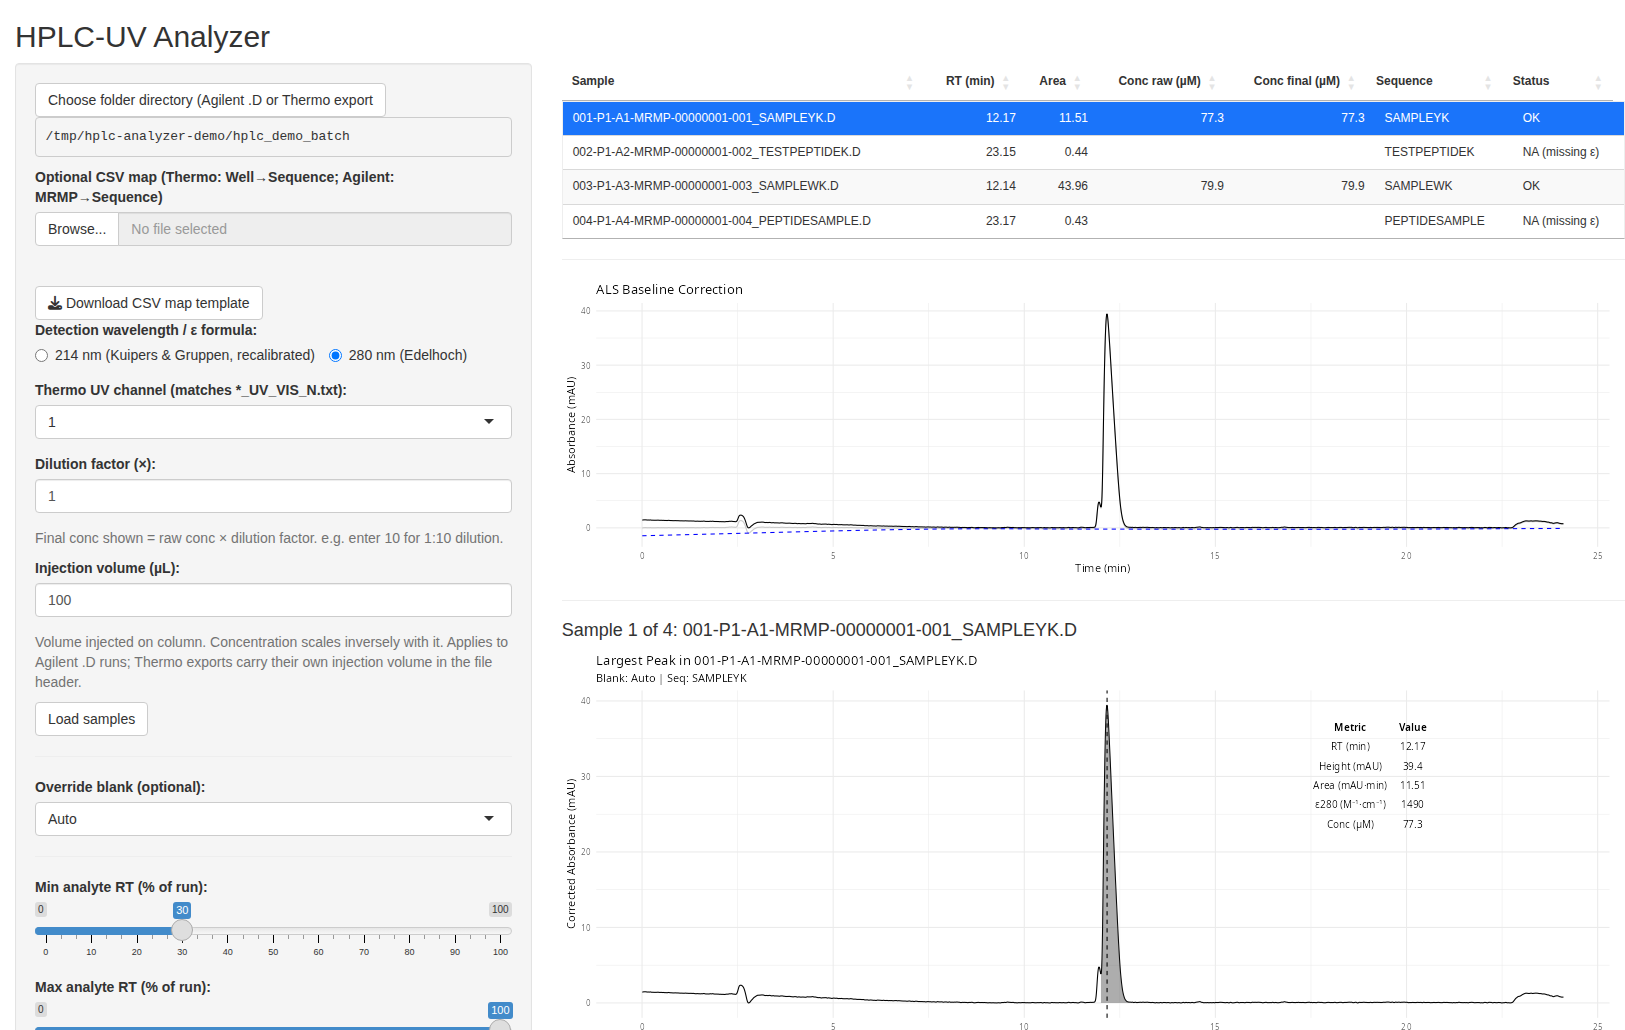
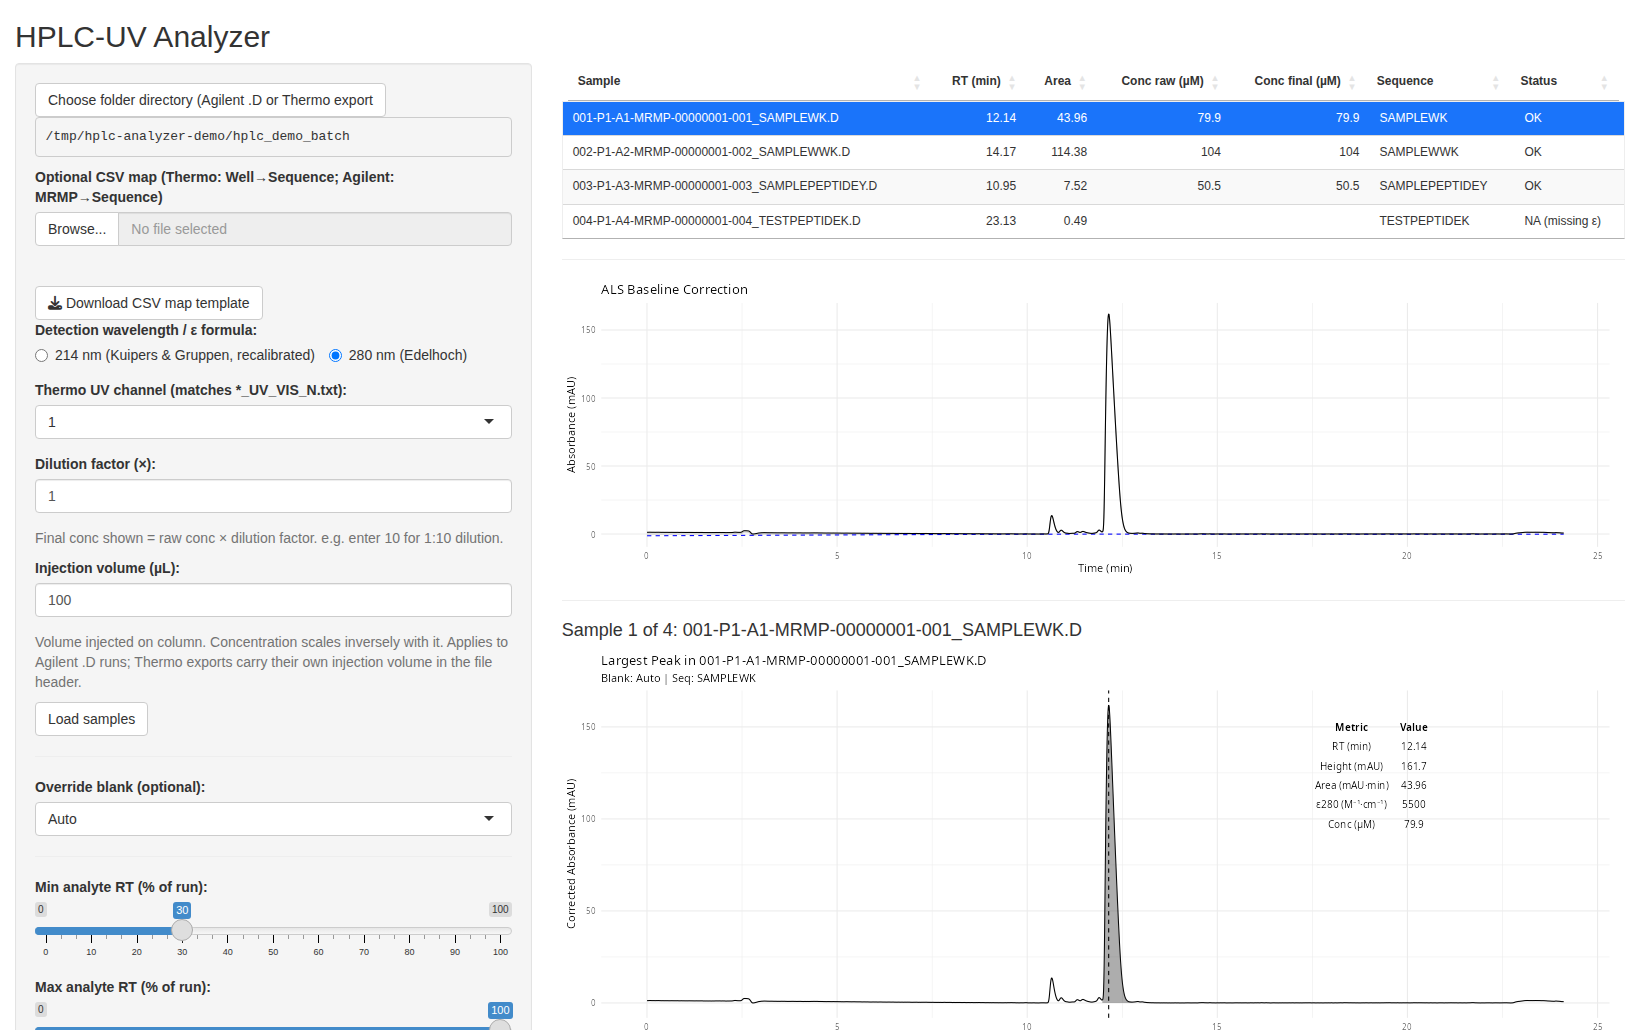
v0.5.2: it was the integration window, not the baseline, and no parameter moves it
The shaded region in the peak plot started partway up the rising edge, which reads as the
integration clipping the peak. Checked it properly this time by plotting the window against the
trace rather than trusting the area.

It is not the baseline. The area is integrated between the two local minima either side of the
apex, which is what pracma::findpeaks() reports as the peak's start and end. On the run that was
featured, the left minimum sat at 67.9 mAU, 9.5 percent of peak height, because a resolved
impurity elutes 0.22 min earlier and the valley between them is the boundary. That is a
perpendicular drop and it is the right treatment: merging the neighbour in would overstate purity.

No parameter adjusts it, which is worth stating because the obvious ones look like they should.
snr from 5 to 100 leaves the start at 12.01 min and the area at 218.1 unchanged; min_peak_dist
from 10 to 60 points and post_win from 11 to 21 change how many peaks are reported and leave the
surviving peak's boundary and area untouched. The rule is inside findpeaks().

It is also common here: of roughly 70 runs in one production batch, four had a main peak whose
integration began and ended below 2 percent of peak height, and the median start was about 9
percent. The screenshots now use those four, so the walkthrough shows an integration running
foot to foot. Both behaviours are documented under "How the integration window is chosen".
[…]

diff --git a/README.md b/README.md
@@ -9,7 +9,7 @@ the peaks, and converts the main peak area to molarity using a molar absorptivit
 from the peptide sequence. Everything runs locally, either from the R console or from a Shiny
 app aimed at bench chemists rather than R programmers.
 
-Version 0.5.1. See [NEWS.md](NEWS.md) for the version history.
+Version 0.5.2. See [NEWS.md](NEWS.md) for the version history.
 
 ![The app with a batch loaded](man/figures/app-03-sample-detail.png)
 
@@ -183,13 +183,13 @@ cd hplc_analyzer
 R CMD build .
 ```
 
-That writes `hplcAnalyzer_0.5.1.tar.gz`. Send that file. The recipient installs the CRAN
+That writes `hplcAnalyzer_0.5.2.tar.gz`. Send that file. The recipient installs the CRAN
 dependencies once and then the tarball:
 
 ```r
 install.packages(c("chromConverter","dplyr","baseline","signal","pracma","ggplot2",
                    "gridExtra","shiny","shinyFiles","fs","DT","tibble","xml2","magrittr"))
-install.packages("C:/path/to/hplcAnalyzer_0.5.1.tar.gz", repos = NULL, type = "source")
+install.packages("C:/path/to/hplcAnalyzer_0.5.2.tar.gz", repos = NULL, type = "source")
 ```
 
 On Windows, close and reopen R before installing over an existing version. A loaded package
@@ -214,9 +214,12 @@ run_hplc_app()
 The app opens in your browser. Nothing leaves your machine: there is no upload, no account and
 no network call anywhere in the package.
 
-The run shown below is a real Agilent batch of four peptide injections. The peptide names are
-synthetic, so the numbers belong to the sequences on screen rather than to anyone's samples.
-There is no blank in this folder, so the screenshots show the plain ALS baseline path; see
+The run shown below is a real Agilent batch of four peptide injections, chosen because each
+main peak resolves to baseline on both sides; see
+[how the integration window is chosen](#how-the-integration-window-is-chosen) for what happens
+when it does not. The peptide names are synthetic, so the numbers belong to the sequences on
+screen rather than to anyone's samples. There is no blank in this folder, so the screenshots
+show the plain ALS baseline path; see
 [the blank-subtracting path leaves an injector artefact](#the-blank-subtracting-path-leaves-an-injector-artefact)
 for what changes when a blank is present.
 
@@ -252,11 +255,13 @@ and say so in plain words rather than reporting a number that would be meaningle
 
 ![The same batch at 280 nm](man/figures/app-04-batch-280nm.png)
 
-In this batch, `SAMPLEYK` and `SAMPLEWK` quantify at both wavelengths; `TESTPEPTIDEK` and
-`PEPTIDESAMPLE` have no 280 nm chromophore at all. That split is not a failure, it is the
-reason 214 nm is the default: only about a third of tryptic peptides carry Trp or Tyr. Note how
-much smaller the 280 nm signal is: 11.51 mAU-min of peak area against 218.09 at 214 nm on
-the same injection.
+In this batch, `SAMPLEWK`, `SAMPLEWWK` and `SAMPLEPEPTIDEY` quantify at both wavelengths;
+`TESTPEPTIDEK` has no 280 nm chromophore at all and returns `NA (missing eps)`. That is not a
+failure, it is the reason 214 nm is the default: only about a third of tryptic peptides carry
+Trp or Tyr. Note also how much smaller the 280 nm signal is, and how much it depends on what
+the peptide carries: on the same four injections the main peak area at 280 nm is 43.96, 114.38,
+7.52 and 0.06 mAU-min against 220.87, 438.79, 124.86 and 172.00 at 214 nm. Two tryptophans
+give a usable 280 nm peak; a single tyrosine gives one twenty times smaller.
 
 **Step 5. Download the results.** **Download Results CSV** writes one row per run; the columns
 are listed under [Results CSV columns](#results-csv-columns).
@@ -553,6 +558,30 @@ Both are exposed as `sample_als_lambda` and `sample_als_p` on the scripted inter
 method needs something else. The piecewise baseline on the blank-subtracting path has its own
 pair, `hybrid_als_lambda` and `hybrid_als_p`.
 
+### How the integration window is chosen
+
+The area of a peak is integrated between the two local minima either side of its apex, which is
+what `pracma::findpeaks()` reports as the peak's start and end. When the peak is resolved, those
+minima sit at baseline and the integration runs foot to foot. When something is fused onto the
+flank, the minimum sits partway up it, and the integration then starts there: a perpendicular
+drop at the valley, which is the standard treatment for an unresolved pair and keeps the
+impurity out of the main peak's area.
+
+**This is worth knowing because it looks wrong on screen.** The shaded region in the peak plot
+begins at a cliff partway up the rising edge rather than at the baseline, and the natural
+reading is that the integration is clipping the peak. It is not; it is excluding a neighbour.
+
+Two things follow. **No parameter changes it.** `snr`, `min_peak_dist` and `post_win` all change
+which peaks are reported, and none of them moves the boundary of the peak that survives: raising
+`snr` from 5 to 100 on a test run leaves the start at 12.01 min and the area at 218.1 either way.
+The boundary rule is in `findpeaks()`, not in a setting. And **it is common in purity samples**:
+across roughly 70 runs of one production batch, only four had a main peak whose integration
+began and ended below 2 percent of peak height. The median start sat at about 9 percent.
+
+If you need the fused shoulder included, integrate it yourself from `result$df_hybrid`, which
+carries the corrected trace, or resolve the pair chromatographically. The package will not merge
+them for you, because merging a real impurity into the main peak would overstate purity.
+
 ### The blank-subtracting path leaves an injector artefact
 
 At 214 nm, when a blank is present in the folder, the app takes the blank-subtracting hybrid
@@ -718,6 +747,10 @@ that has already been reported. Set it yourself.
 - **The hybrid baseline path can fail on individual runs.** One of 58 runs in the batch tested
   errors inside `baseline_hybrid_sm()` with `invalid 'times' argument`. The app catches it, and
   the row carries the error text rather than a number.
+- **The integration window stops at a fused shoulder**, so on a peak with an unresolved
+  neighbour the shaded region starts partway up the flank rather than at baseline. That is a
+  perpendicular drop and it is deliberate, but no parameter adjusts it. See
+  [how the integration window is chosen](#how-the-integration-window-is-chosen).
 - **The hybrid baseline path over-subtracts the injector peak**, leaving a constant -317 mAU
   artefact at 3.28 min that the guard ramp does not cover, and returns concentrations 5 to 15
   percent different from the ALS path on the same runs. See
@@ -816,7 +849,7 @@ GPL-3. Copyright Peter Kubiniok.
 If you use hplcAnalyzer, cite the software together with references 1 and 2 above:
 
 > Kubiniok, P. (2026). hplcAnalyzer: automated HPLC-UV analysis and peptide concentration
-> estimation. R package version 0.5.1.
+> estimation. R package version 0.5.2.
 
 If you report a 214 nm concentration from it, say which coefficients you used. The shipped
 `estimate_epsilon_214()` is **not** the published Kuipers and Gruppen value for tryptophan;

diff --git a/NEWS.md b/NEWS.md
@@ -1,3 +1,18 @@
+# hplcAnalyzer 0.5.2
+
+* **Documented how the integration window is chosen**, after the shaded region in the peak plot
+  was read, reasonably, as the integration clipping the peak. It is not: the window runs between
+  the two local minima either side of the apex, so a fused shoulder puts the boundary partway up
+  the flank. That is a perpendicular drop and it keeps the neighbour out of the main peak.
+  Worth stating plainly because **no parameter moves it**: raising `snr` from 5 to 100 on a test
+  run leaves the start at 12.01 min and the area at 218.1 unchanged, and `min_peak_dist` and
+  `post_win` only change which peaks are reported. The rule lives in `pracma::findpeaks()`.
+  It is also common in purity samples: of roughly 70 runs in one production batch, four had a
+  main peak whose integration began and ended below 2 percent of peak height.
+
+* Screenshots reshot on four of those four cleanly resolved runs, so the walkthrough shows an
+  integration running foot to foot rather than one that invites the wrong reading.
+
 # hplcAnalyzer 0.5.1
 
 * **The ALS asymmetry parameter goes from 1e-4 to 1e-6, and lambda settles at 5.5.** 0.5.0

diff --git a/INSTALL.md b/INSTALL.md
@@ -37,11 +37,11 @@ install.packages(c("chromConverter","dplyr","baseline","signal","pracma","ggplot
 Then install the package itself, using the full path to the file you were sent:
 
 ```r
-install.packages("C:/Users/you/Downloads/hplcAnalyzer_0.5.1.tar.gz",
+install.packages("C:/Users/you/Downloads/hplcAnalyzer_0.5.2.tar.gz",
                  repos = NULL, type = "source")
 ```
 
-On macOS the path looks like `/Users/you/Downloads/hplcAnalyzer_0.5.1.tar.gz`. Use forward
+On macOS the path looks like `/Users/you/Downloads/hplcAnalyzer_0.5.2.tar.gz`. Use forward
 slashes on every platform, including Windows.
 
 ### B. You have a git checkout
